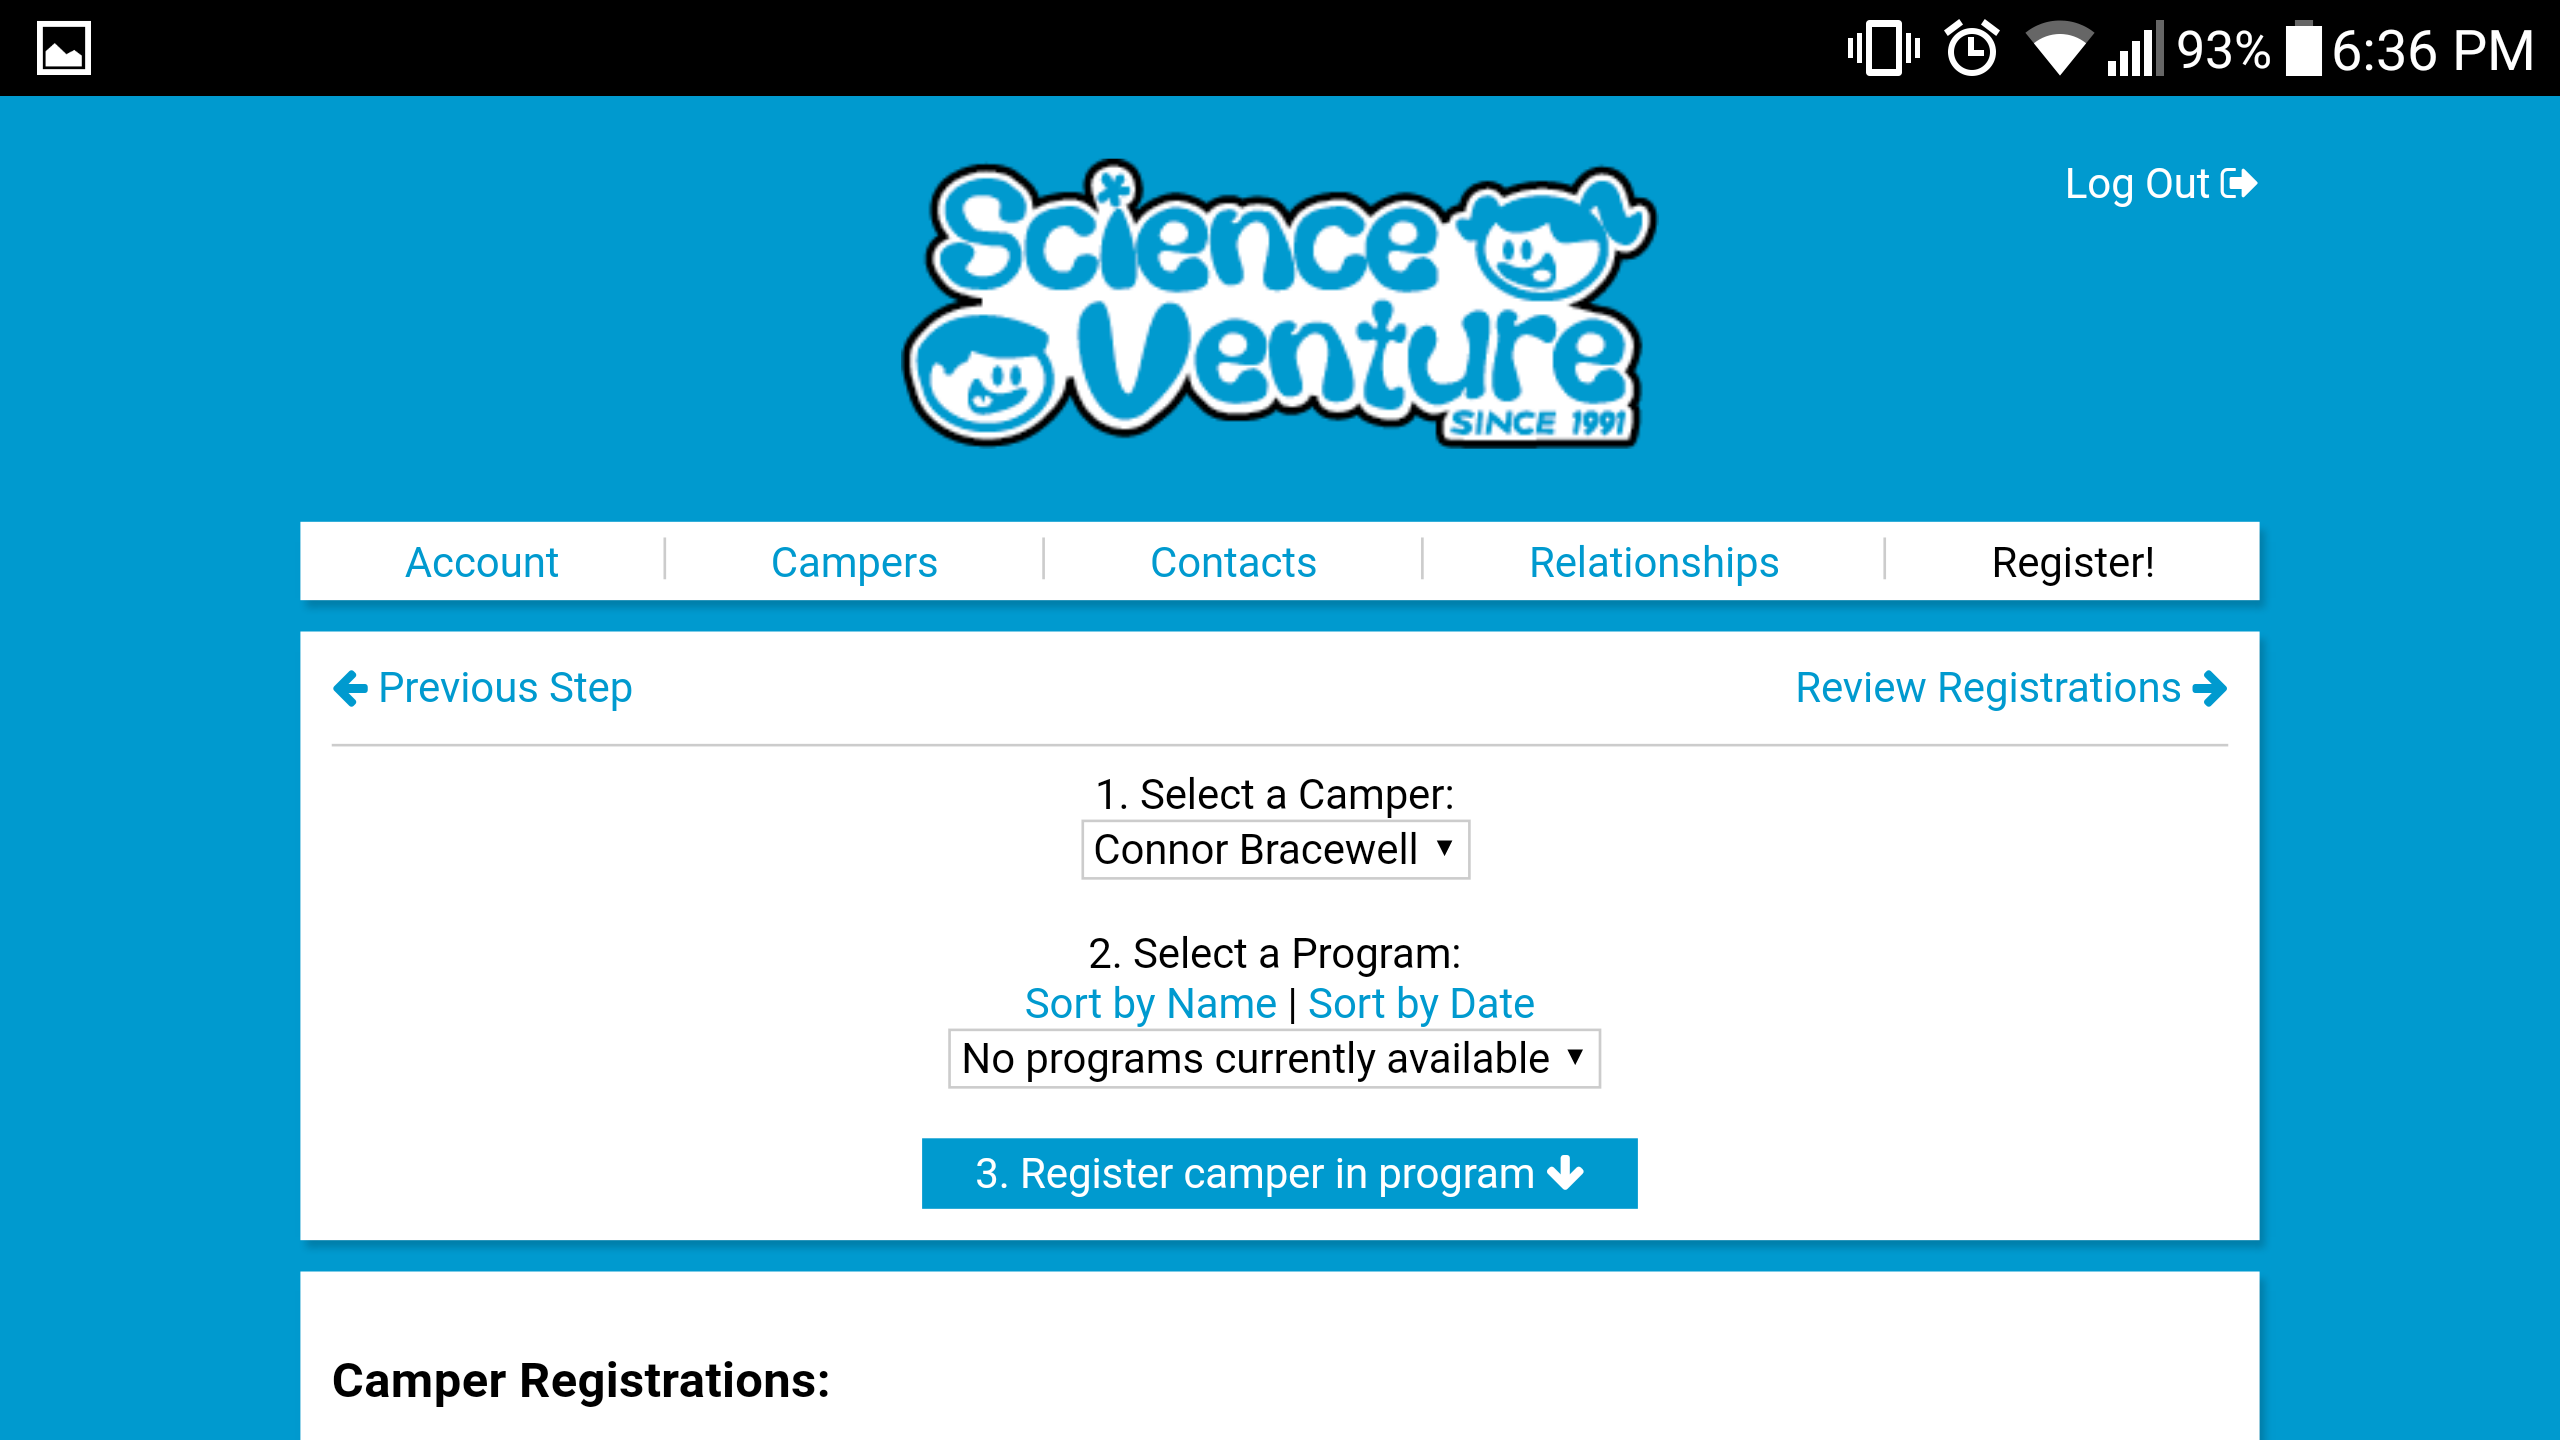
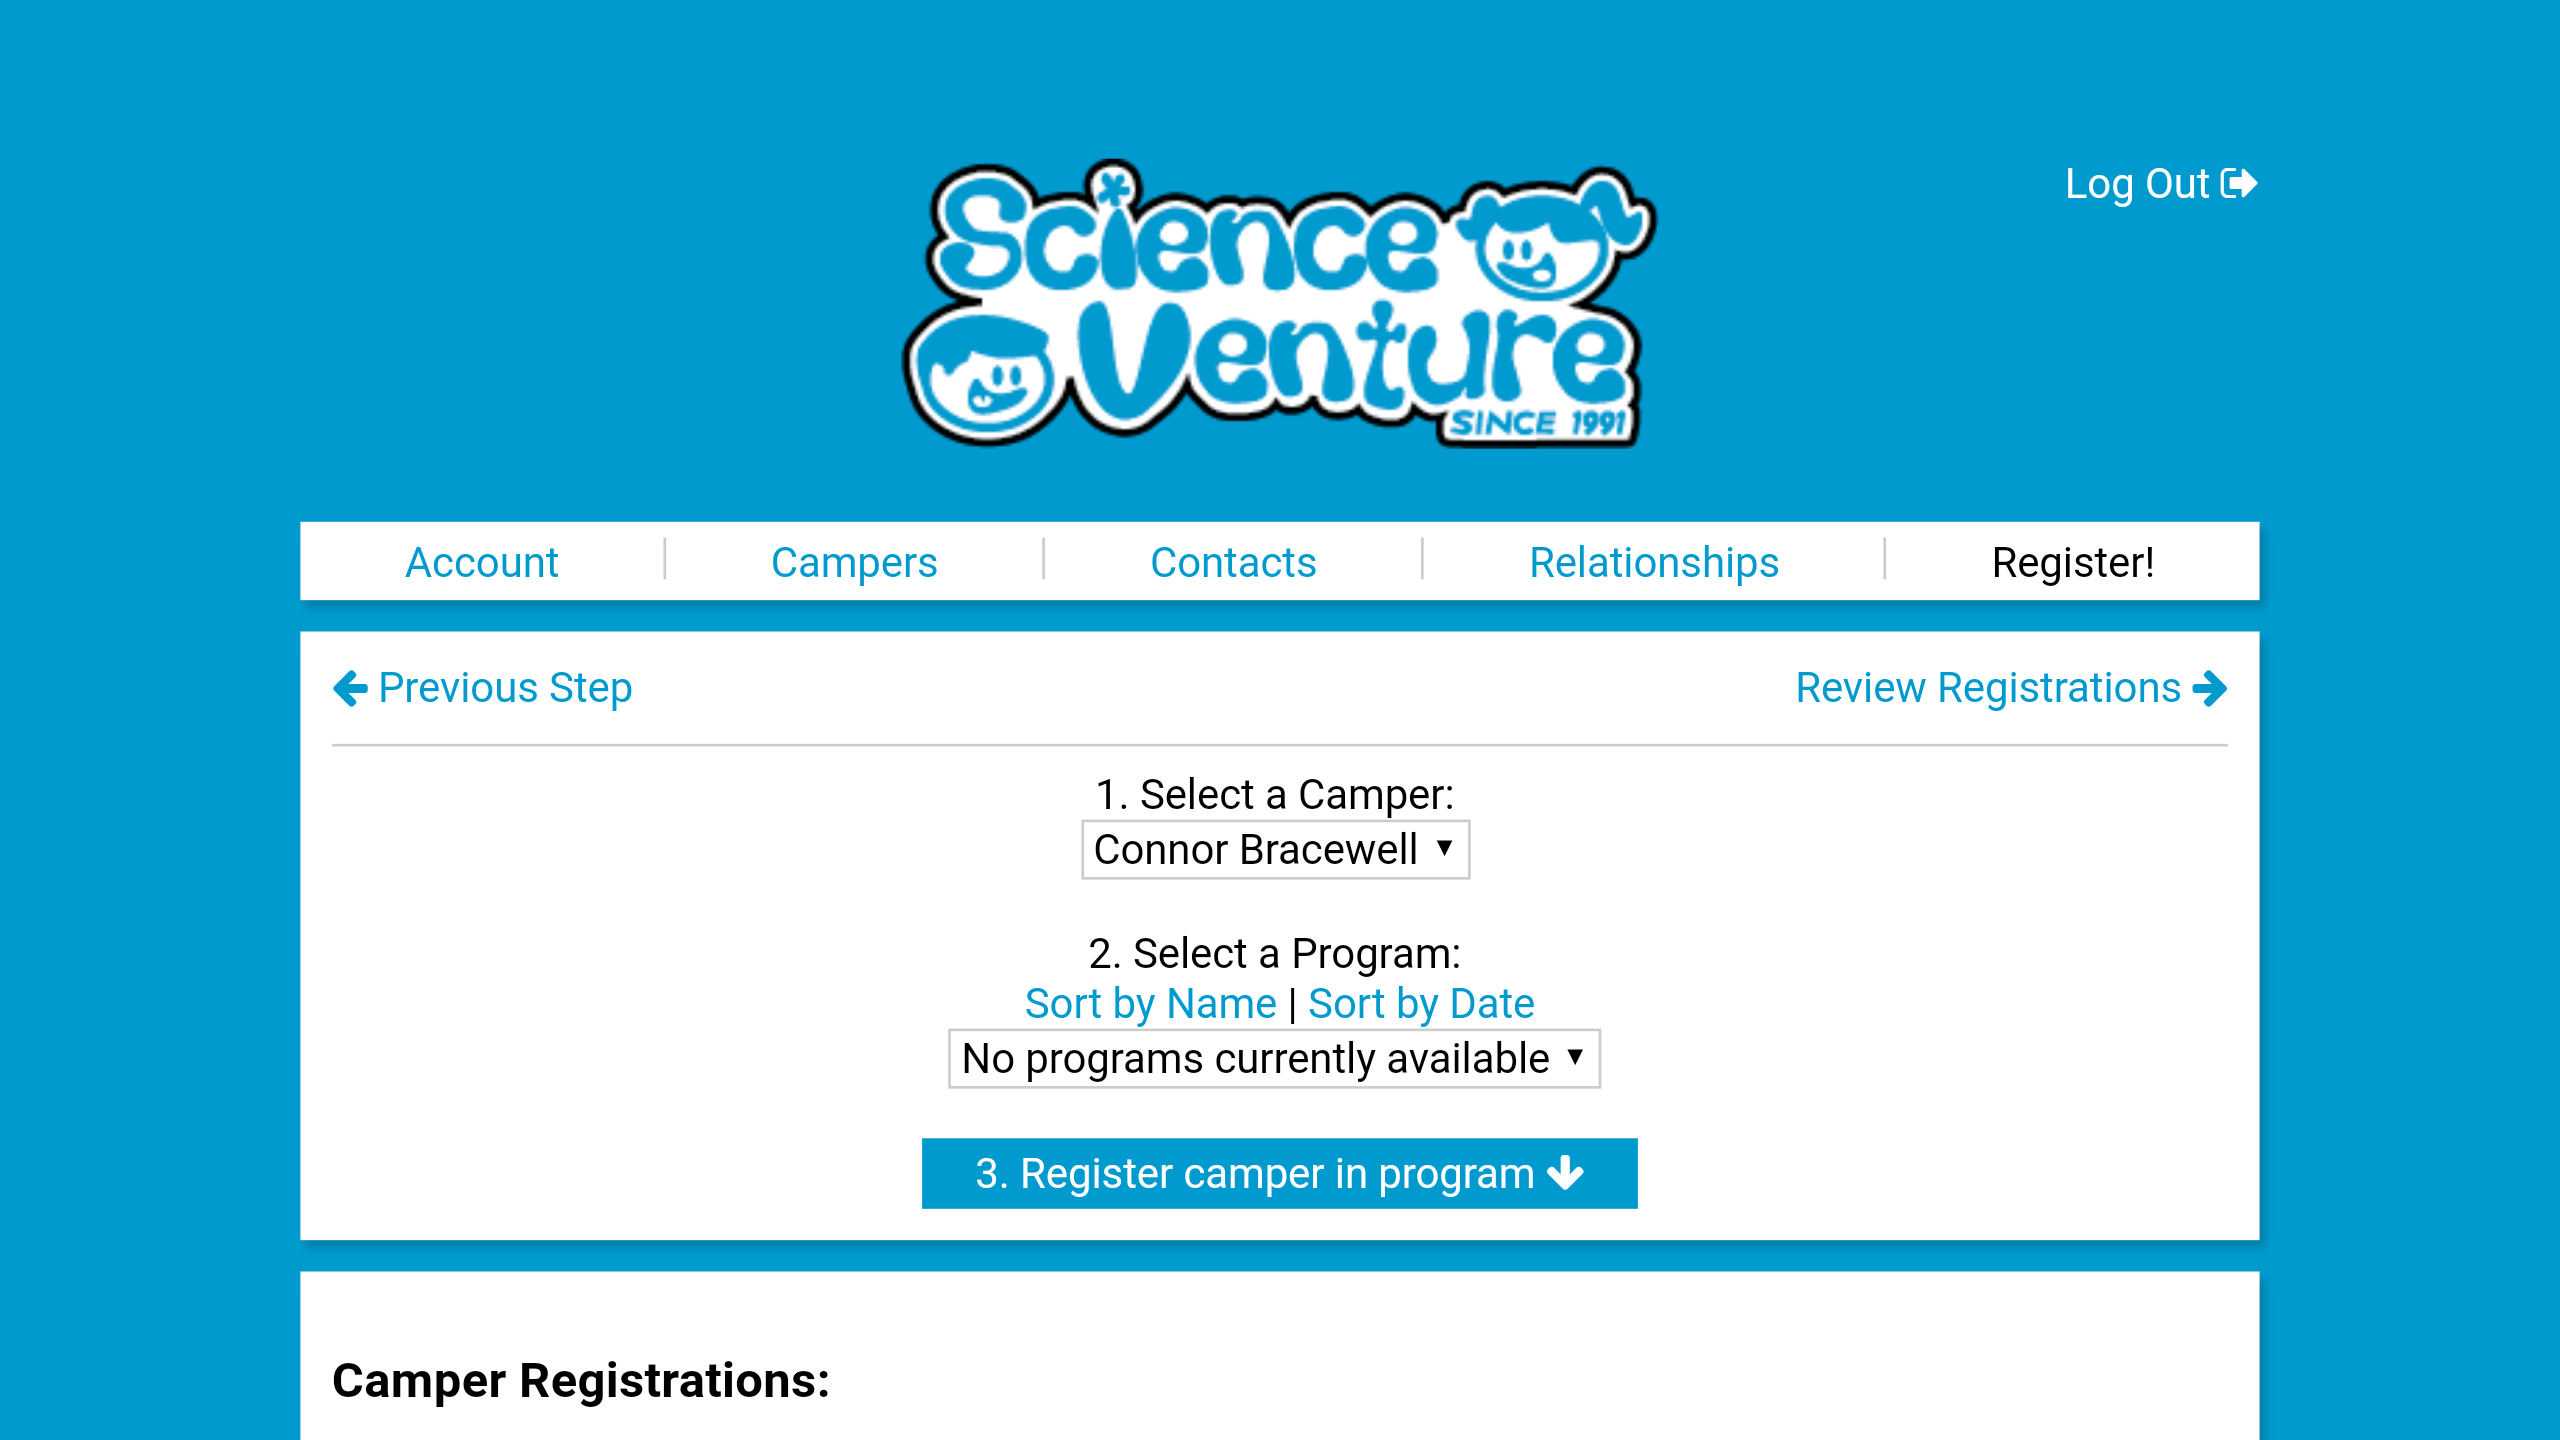
Fix minor style issues
- Corrects an issue with filler line rendering in non-Chrome browsers
 - Corrects a regression with printing functionality
 - Removes status bar from SV Registration screenshots
 - Several other small style fixes

Changed region(s): [[0.0, 0.0, 1.0, 0.0938]]

diff --git a/css/style.css b/css/style.css
@@ -83,7 +83,7 @@ img {
 
 @media print { .page-container {
     max-width: 100%;
-    padding: 0;
+    padding: 1.3em;
 }}
 
 .contact-container {
@@ -149,6 +149,10 @@ h1.name {
     padding-bottom: 3em;
 }
 
+@media print { .content-container {
+    padding-bottom: 0;
+}}
+
 .content-panel {
     margin-top: 1em;
 }
@@ -161,9 +165,9 @@ h2.fallback-header {
     border-bottom: 1px solid rgba(0,0,0,0.15);
 }
 
-@media print { .display-resume:not(#resume) {
+@media print { .print-resume {
     /* positioning adjust on the single-page print resume */
-    padding-top: 1.5em;
+    margin-top: 3em;
 }}
 
 h3.resume-section {
@@ -171,7 +175,6 @@ h3.resume-section {
     margin-bottom: 0.25em;
     white-space: nowrap;
     overflow: hidden;
-    text-overflow: ellipsis;
     font-size: 1.1em;
 }
 

diff --git a/index.html b/index.html
@@ -43,7 +43,7 @@
             </ul>
         </div>
 
-        <div class="content-panel" id="resume">
+        <div class="content-panel print-resume" id="resume">
             <h2 class="fallback-header noscript-only">R&eacute;sum&eacute;</h2>
             <h3 class="resume-section">Education<span class="resume-fill-line"></span></h3>
             <ul class="resume-list">
